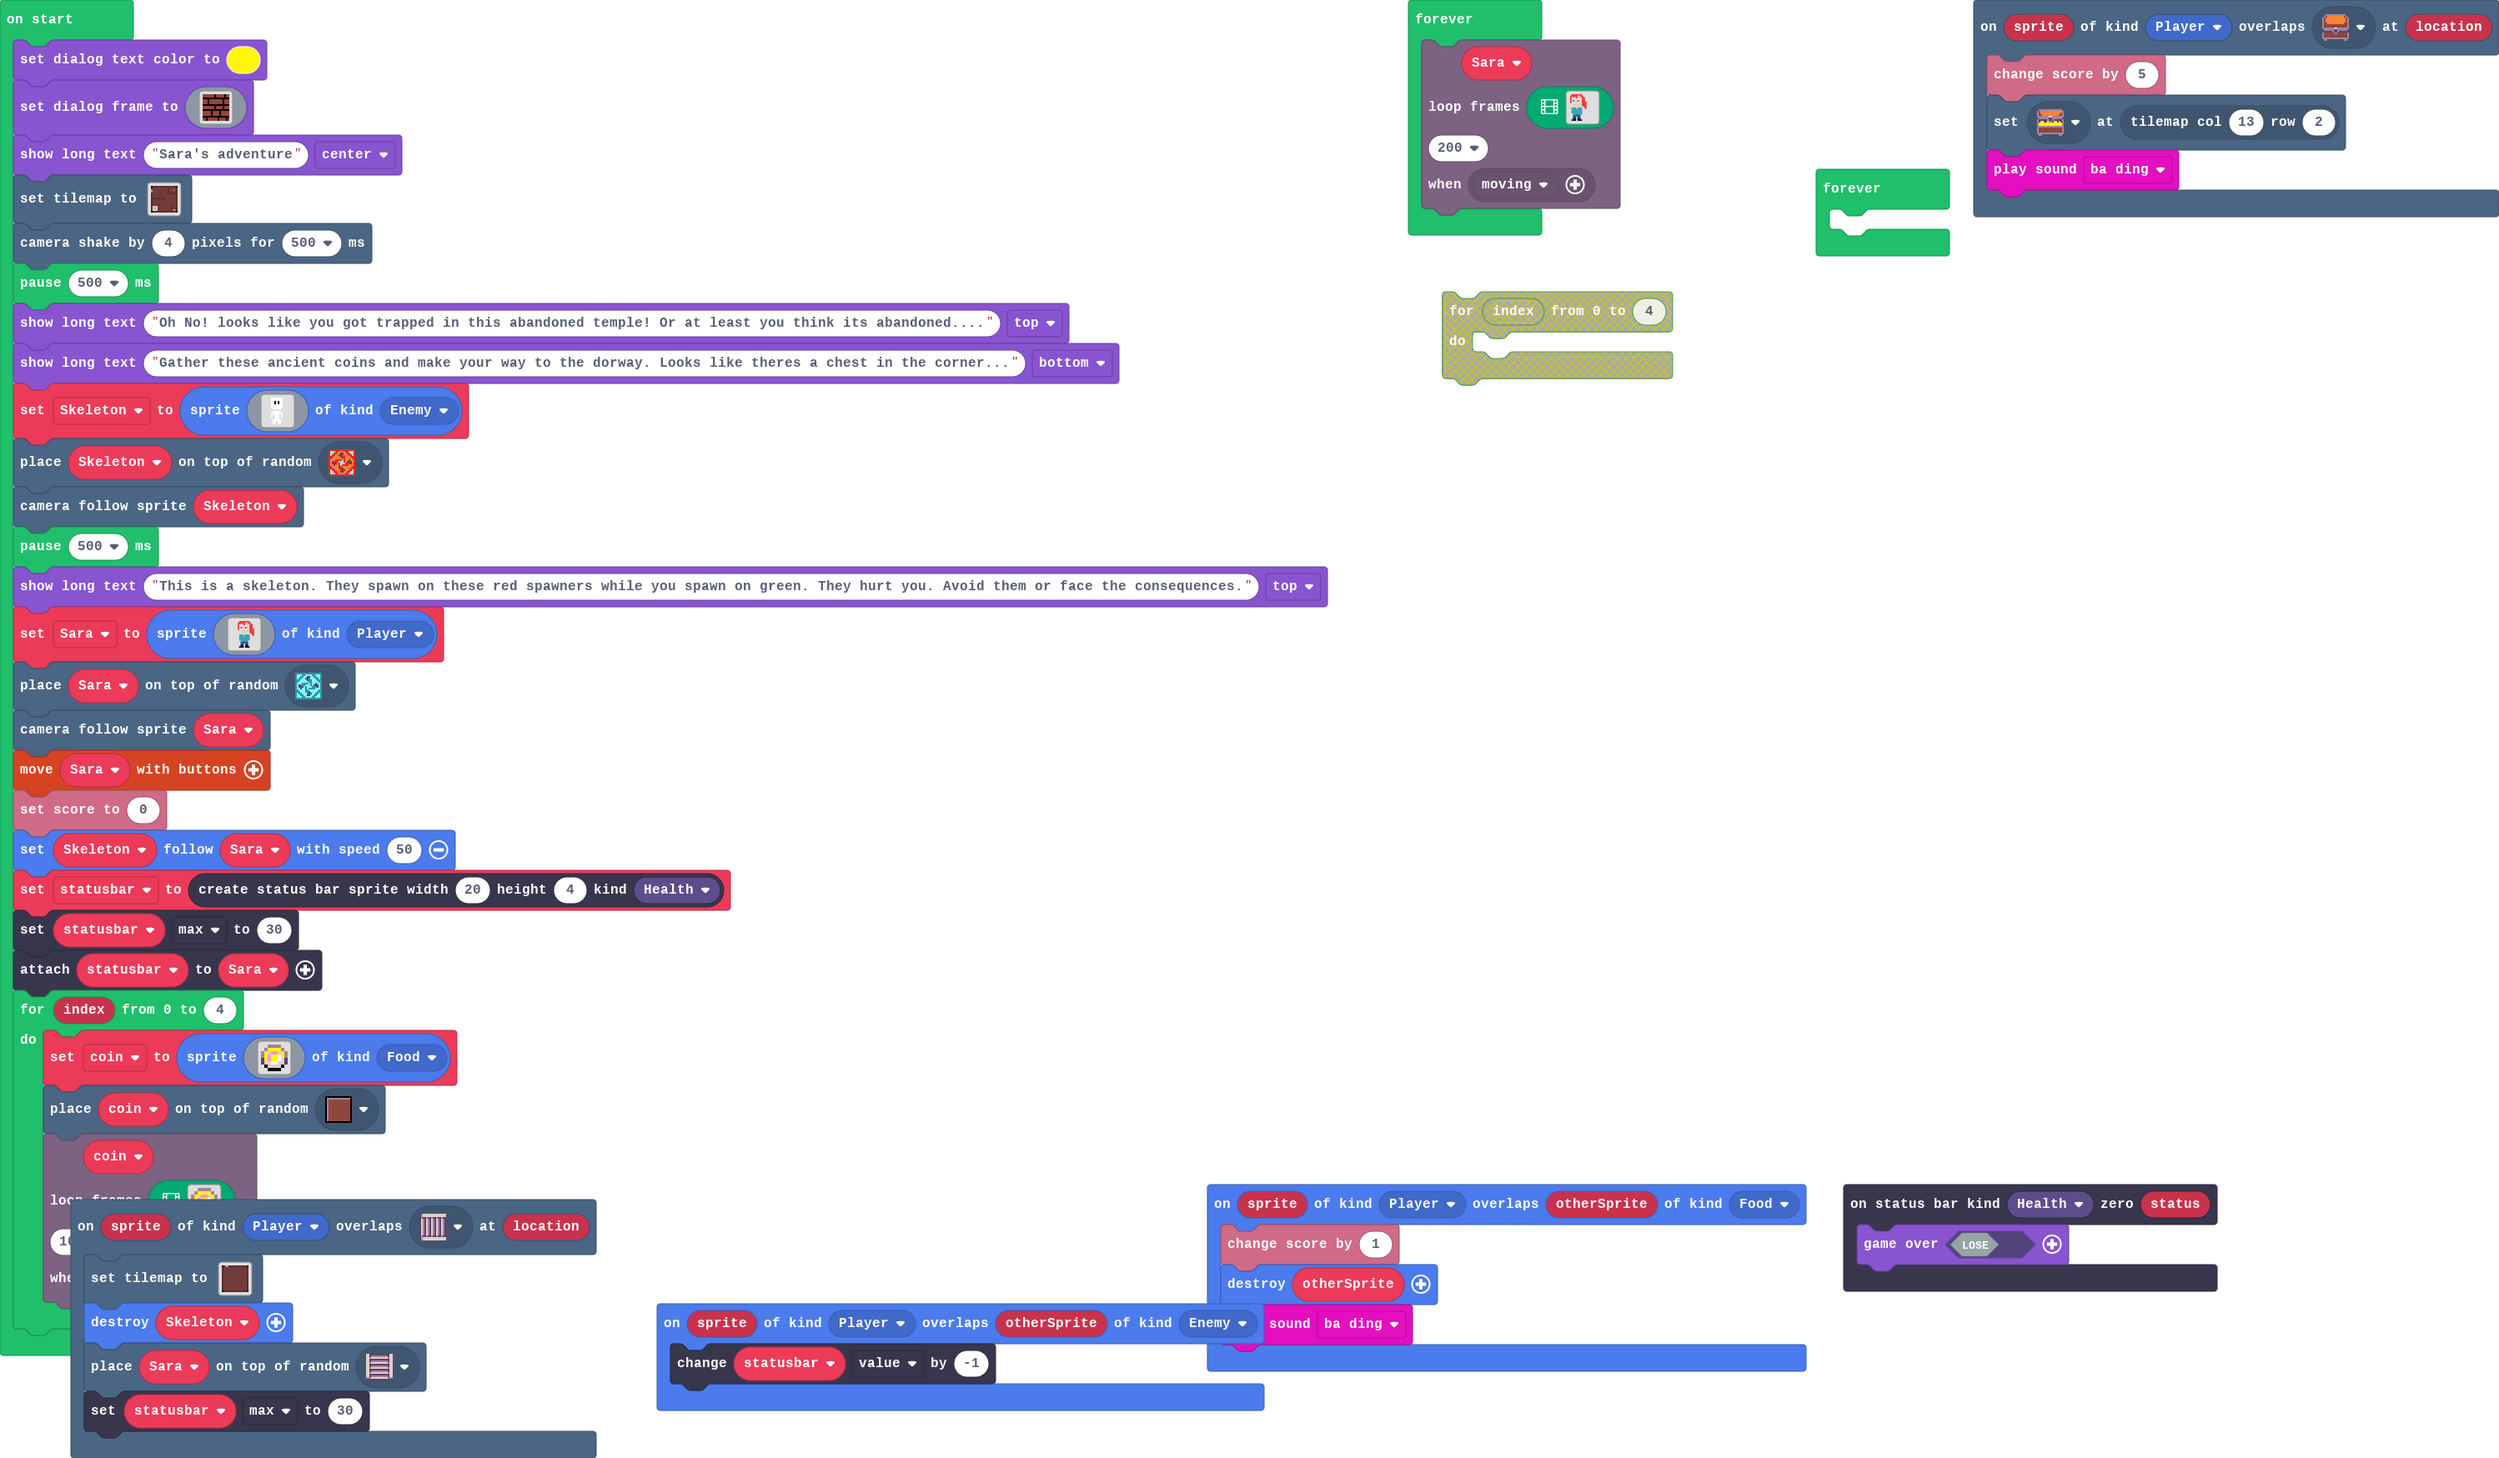
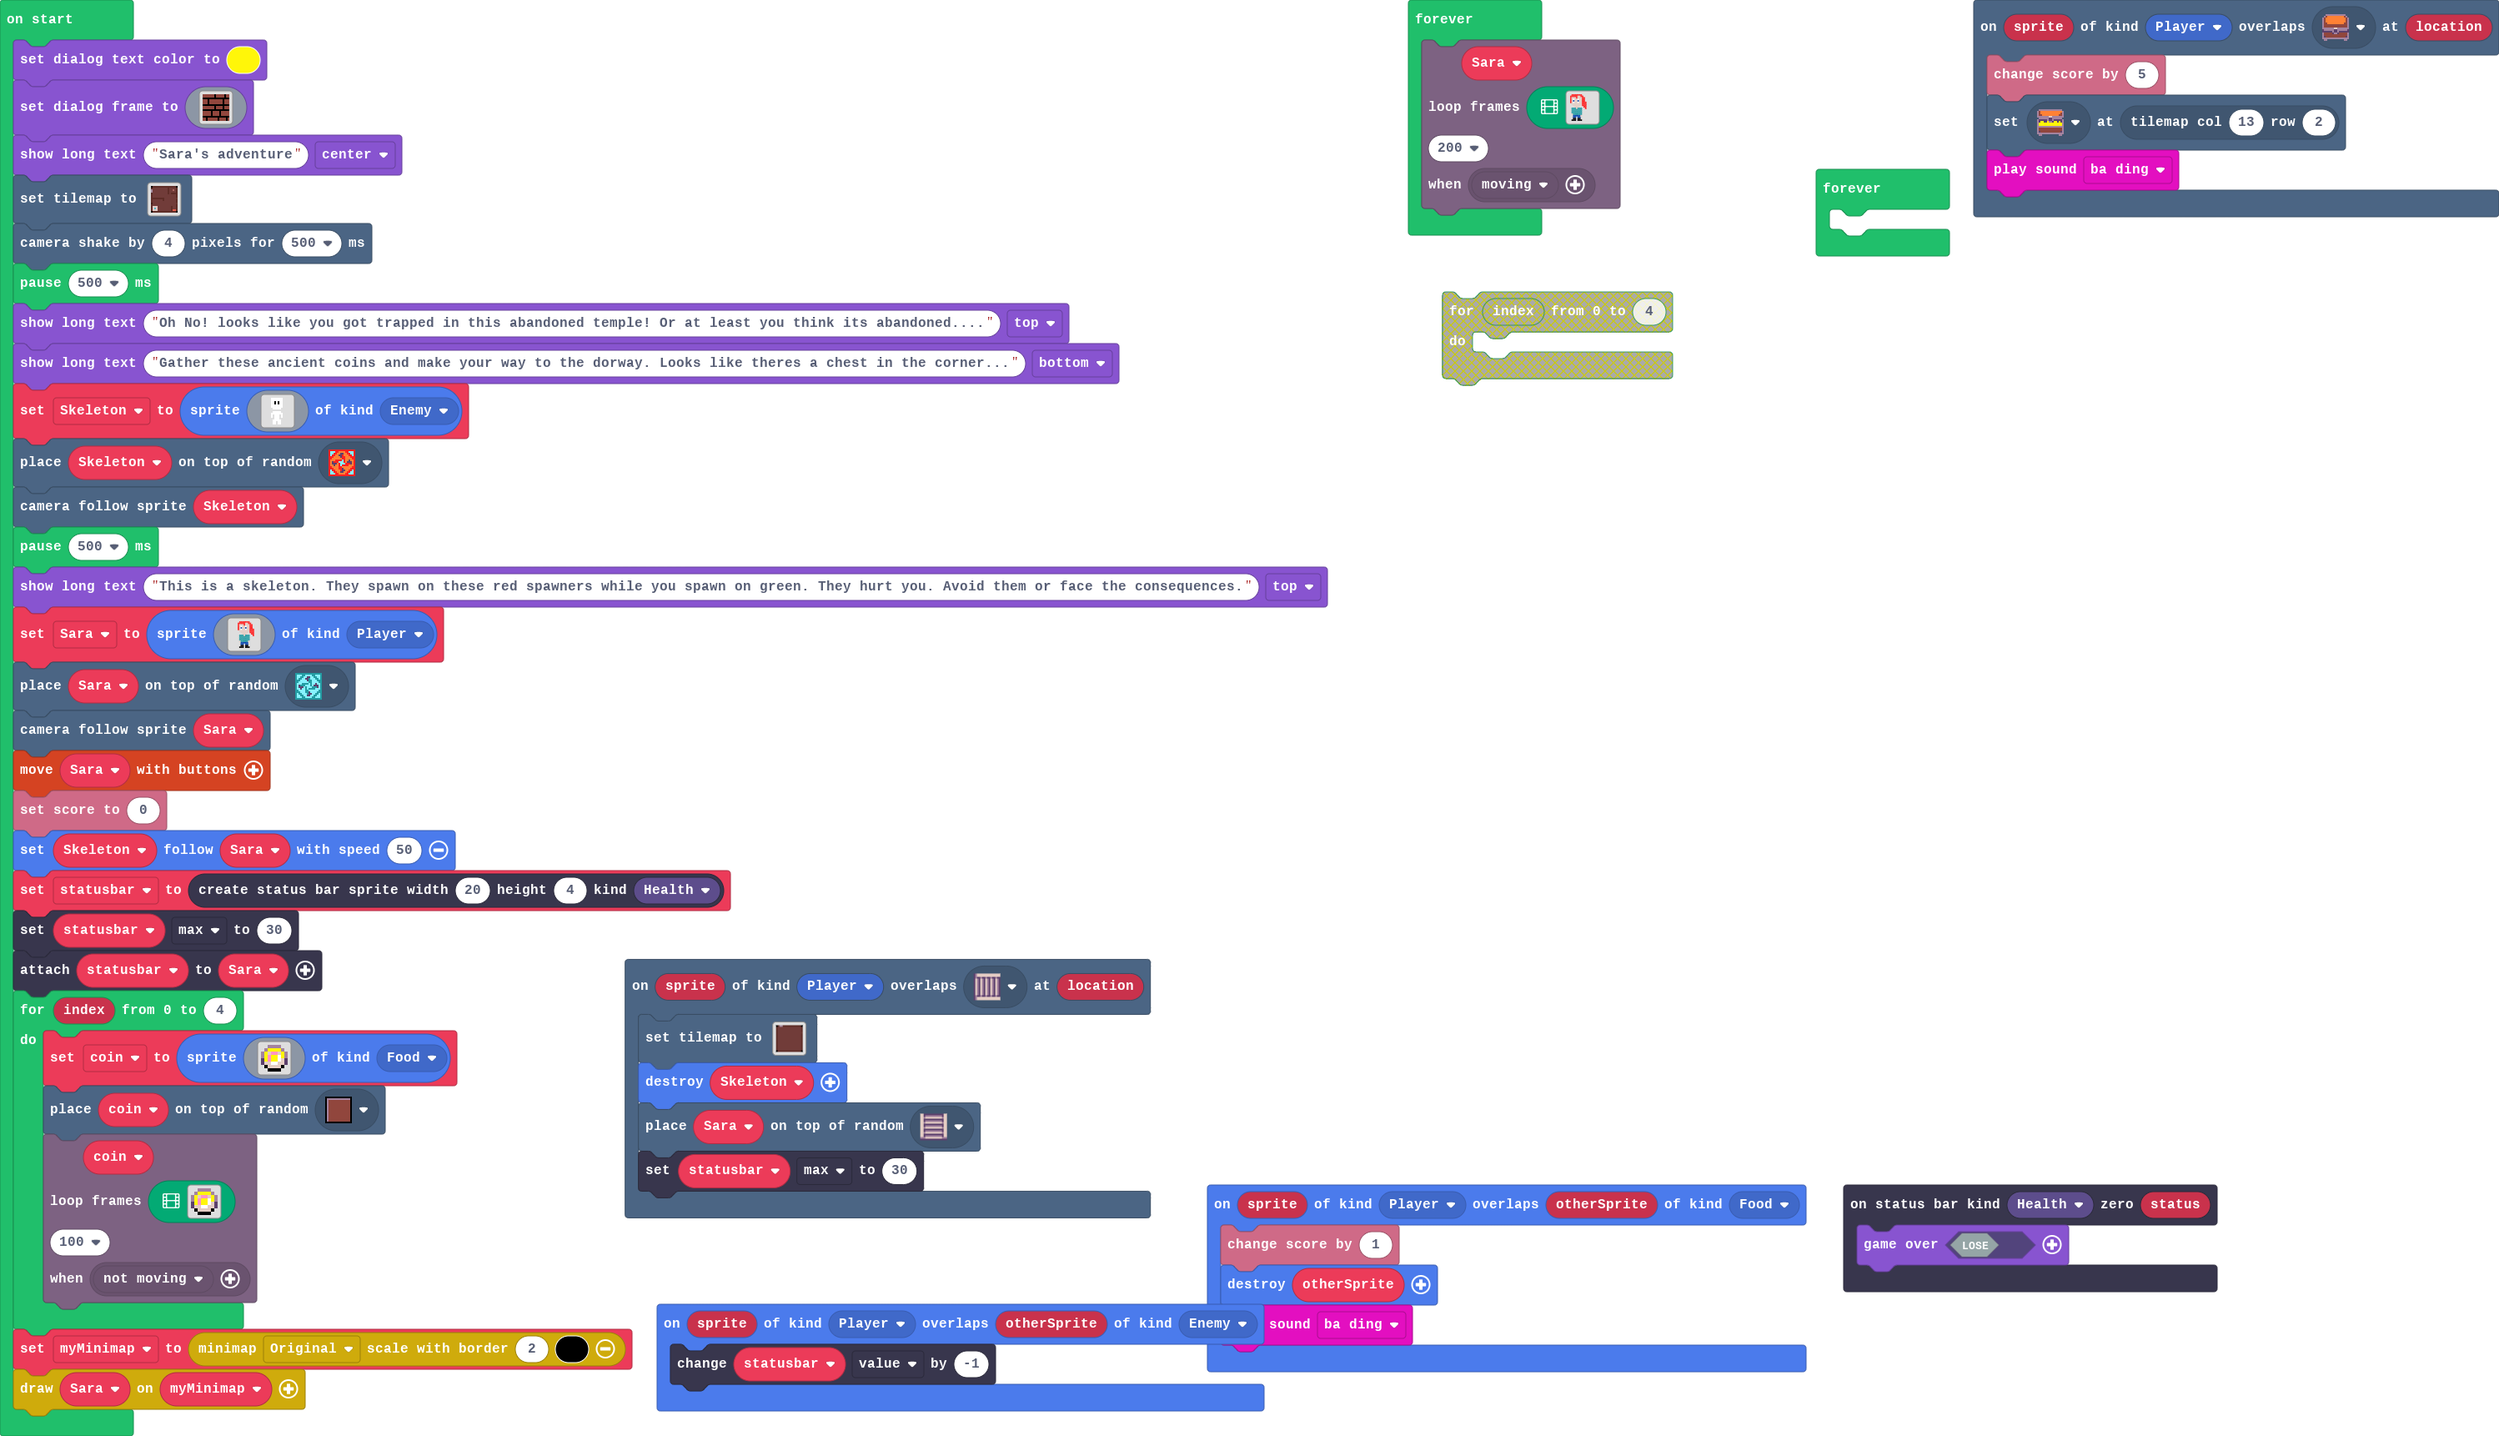
Update pxt.json, main.blocks, main.ts, tilemap.g.jres, tilemap.g.ts

diff --git a/tilemap.g.ts b/tilemap.g.ts
@@ -11,8 +11,6 @@ namespace myTiles {
     //% fixedInstance jres blockIdentity=images._tile
     export const tile7 = image.ofBuffer(hex``);
     //% fixedInstance jres blockIdentity=images._tile
-    export const tile8 = image.ofBuffer(hex``);
-    //% fixedInstance jres blockIdentity=images._tile
     export const tile9 = image.ofBuffer(hex``);
     //% fixedInstance jres blockIdentity=images._tile
     export const tile11 = image.ofBuffer(hex``);
@@ -32,6 +30,8 @@ namespace myTiles {
     export const tile12 = image.ofBuffer(hex``);
     //% fixedInstance jres blockIdentity=images._tile
     export const tile13 = image.ofBuffer(hex``);
+    //% fixedInstance jres blockIdentity=images._tile
+    export const tile8 = image.ofBuffer(hex``);
 
     helpers._registerFactory("tilemap", function(name: string) {
         switch(helpers.stringTrim(name)) {
@@ -107,8 +107,6 @@ namespace myTiles {
             case "tile5":return tile5;
             case "myTile5":
             case "tile7":return tile7;
-            case "myTile6":
-            case "tile8":return tile8;
             case "myTile7":
             case "tile9":return tile9;
             case "myTile9":
@@ -129,6 +127,8 @@ namespace myTiles {
             case "tile12":return tile12;
             case "myTile11":
             case "tile13":return tile13;
+            case "myTile6":
+            case "tile8":return tile8;
         }
         return null;
     })

diff --git a/main.ts b/main.ts
@@ -155,6 +155,8 @@ for (let index = 0; index <= 4; index++) {
     characterAnimations.rule(Predicate.NotMoving)
     )
 }
+let myMinimap = minimap.minimap(MinimapScale.Original, 2, 15)
+minimap.includeSprite(myMinimap, Sara)
 forever(function () {
     characterAnimations.loopFrames(
     Sara,
